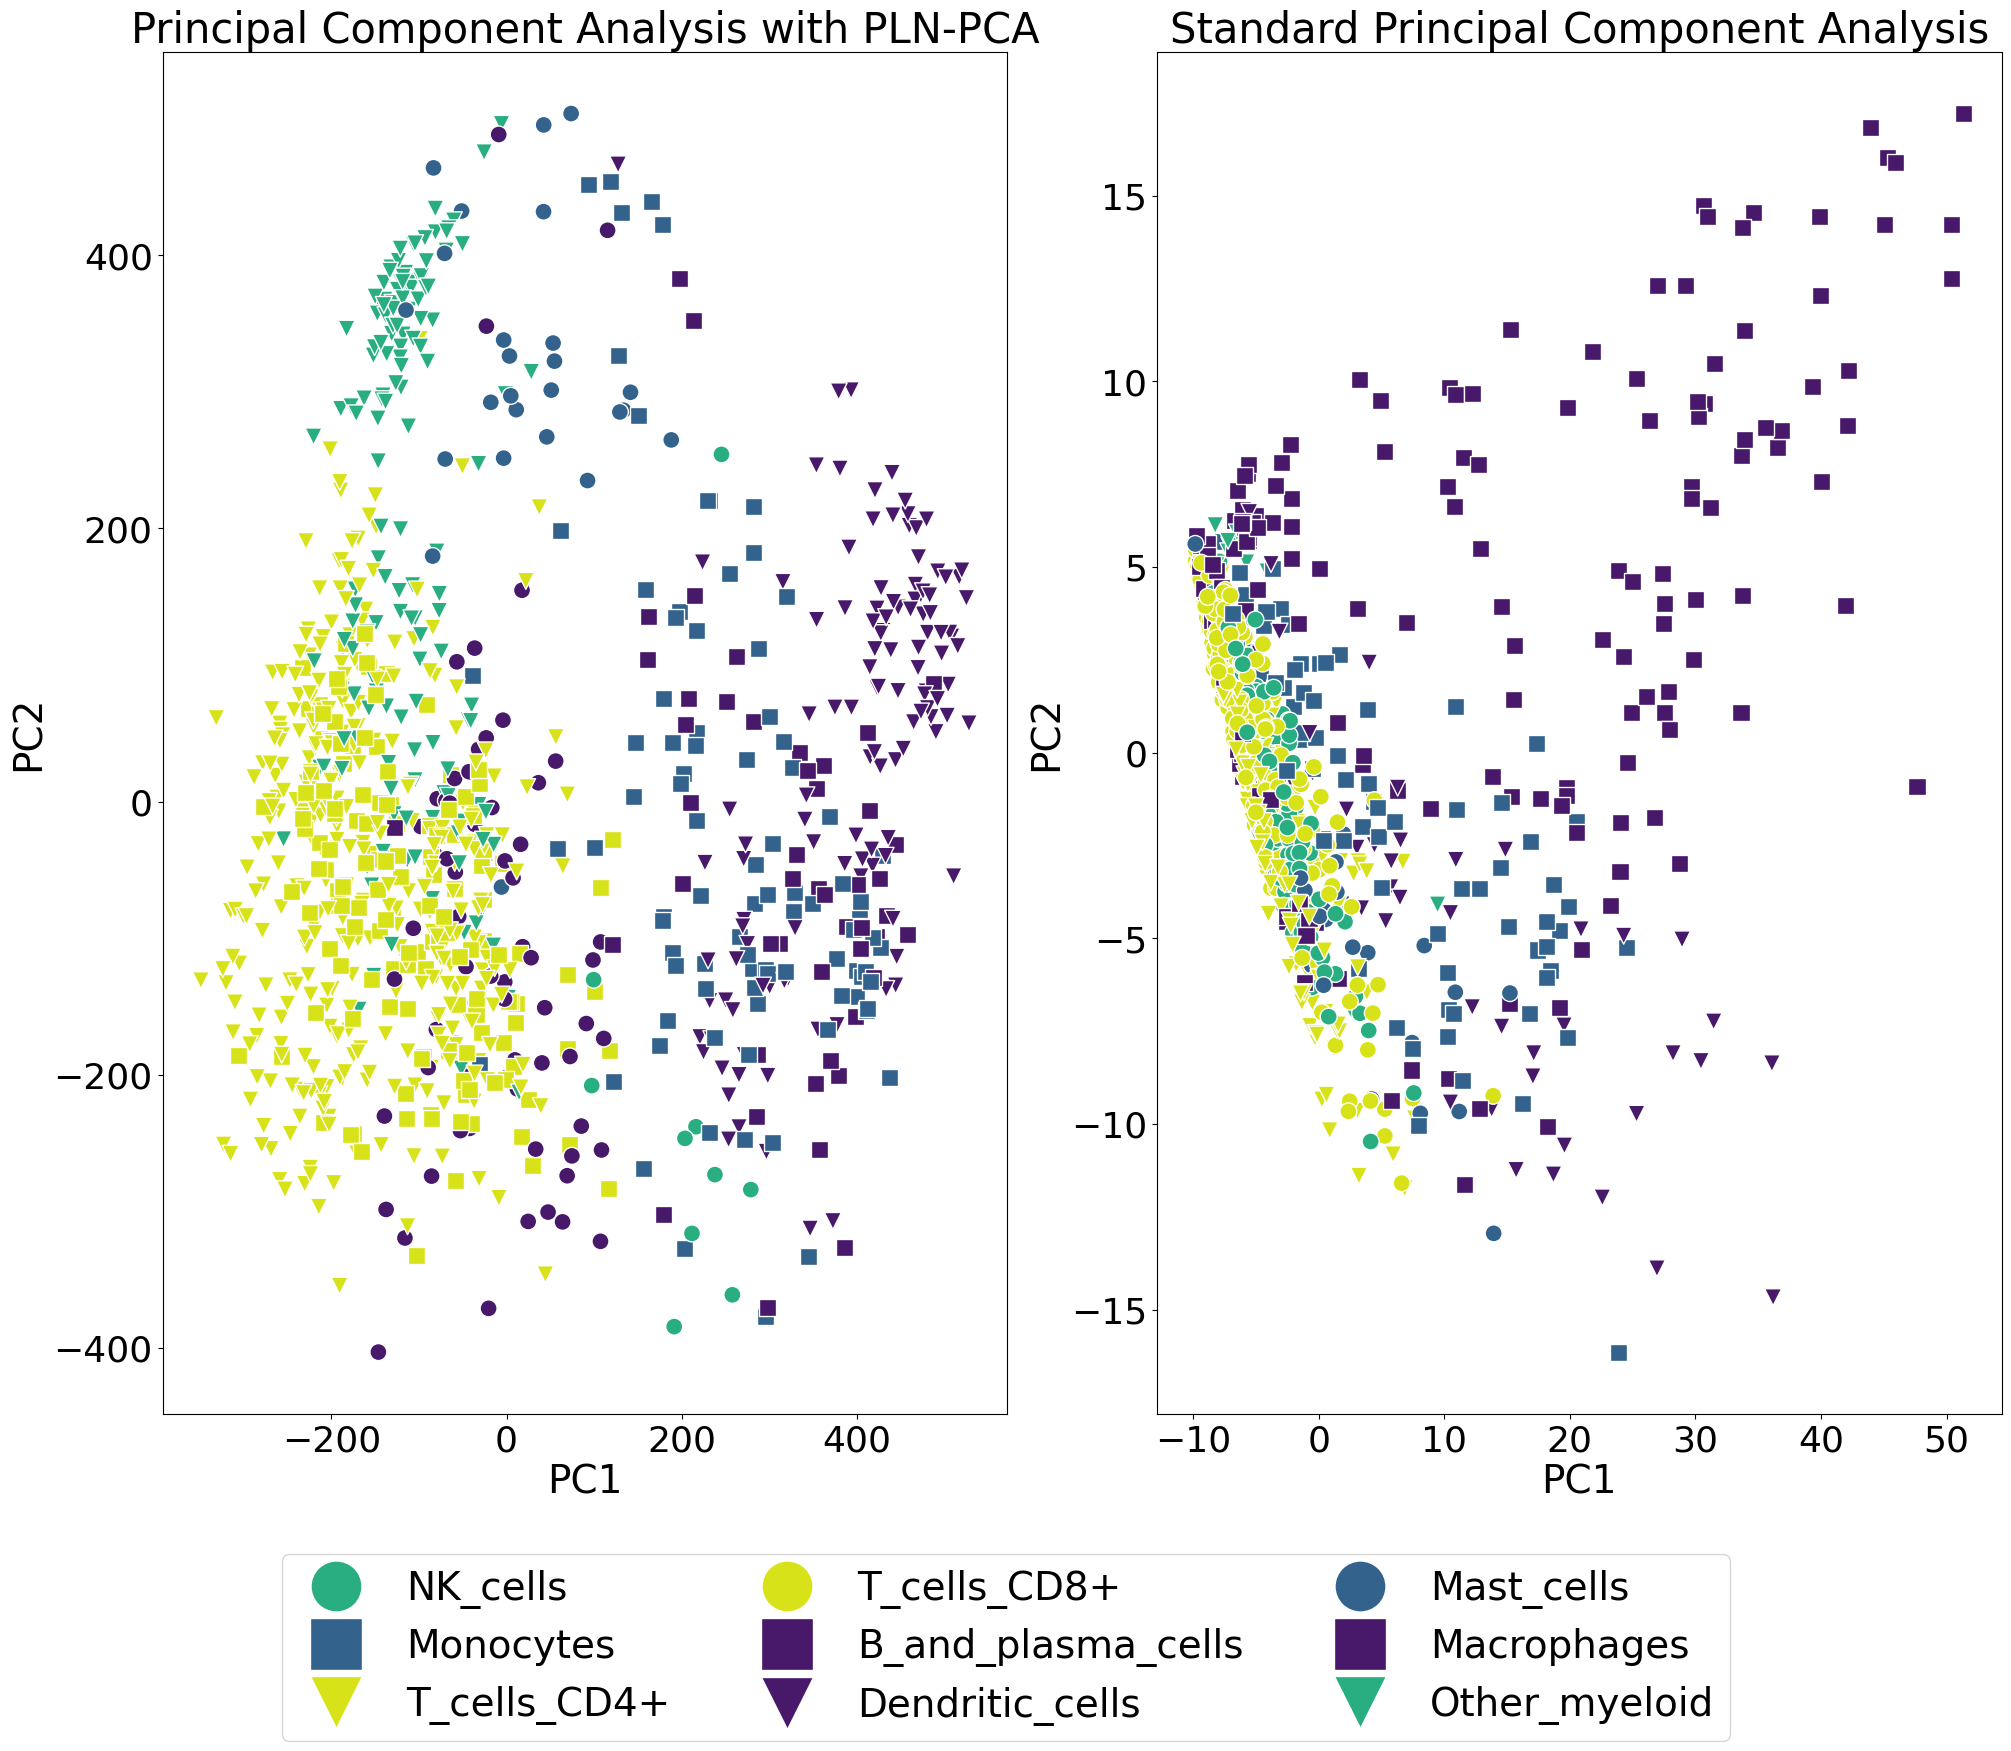
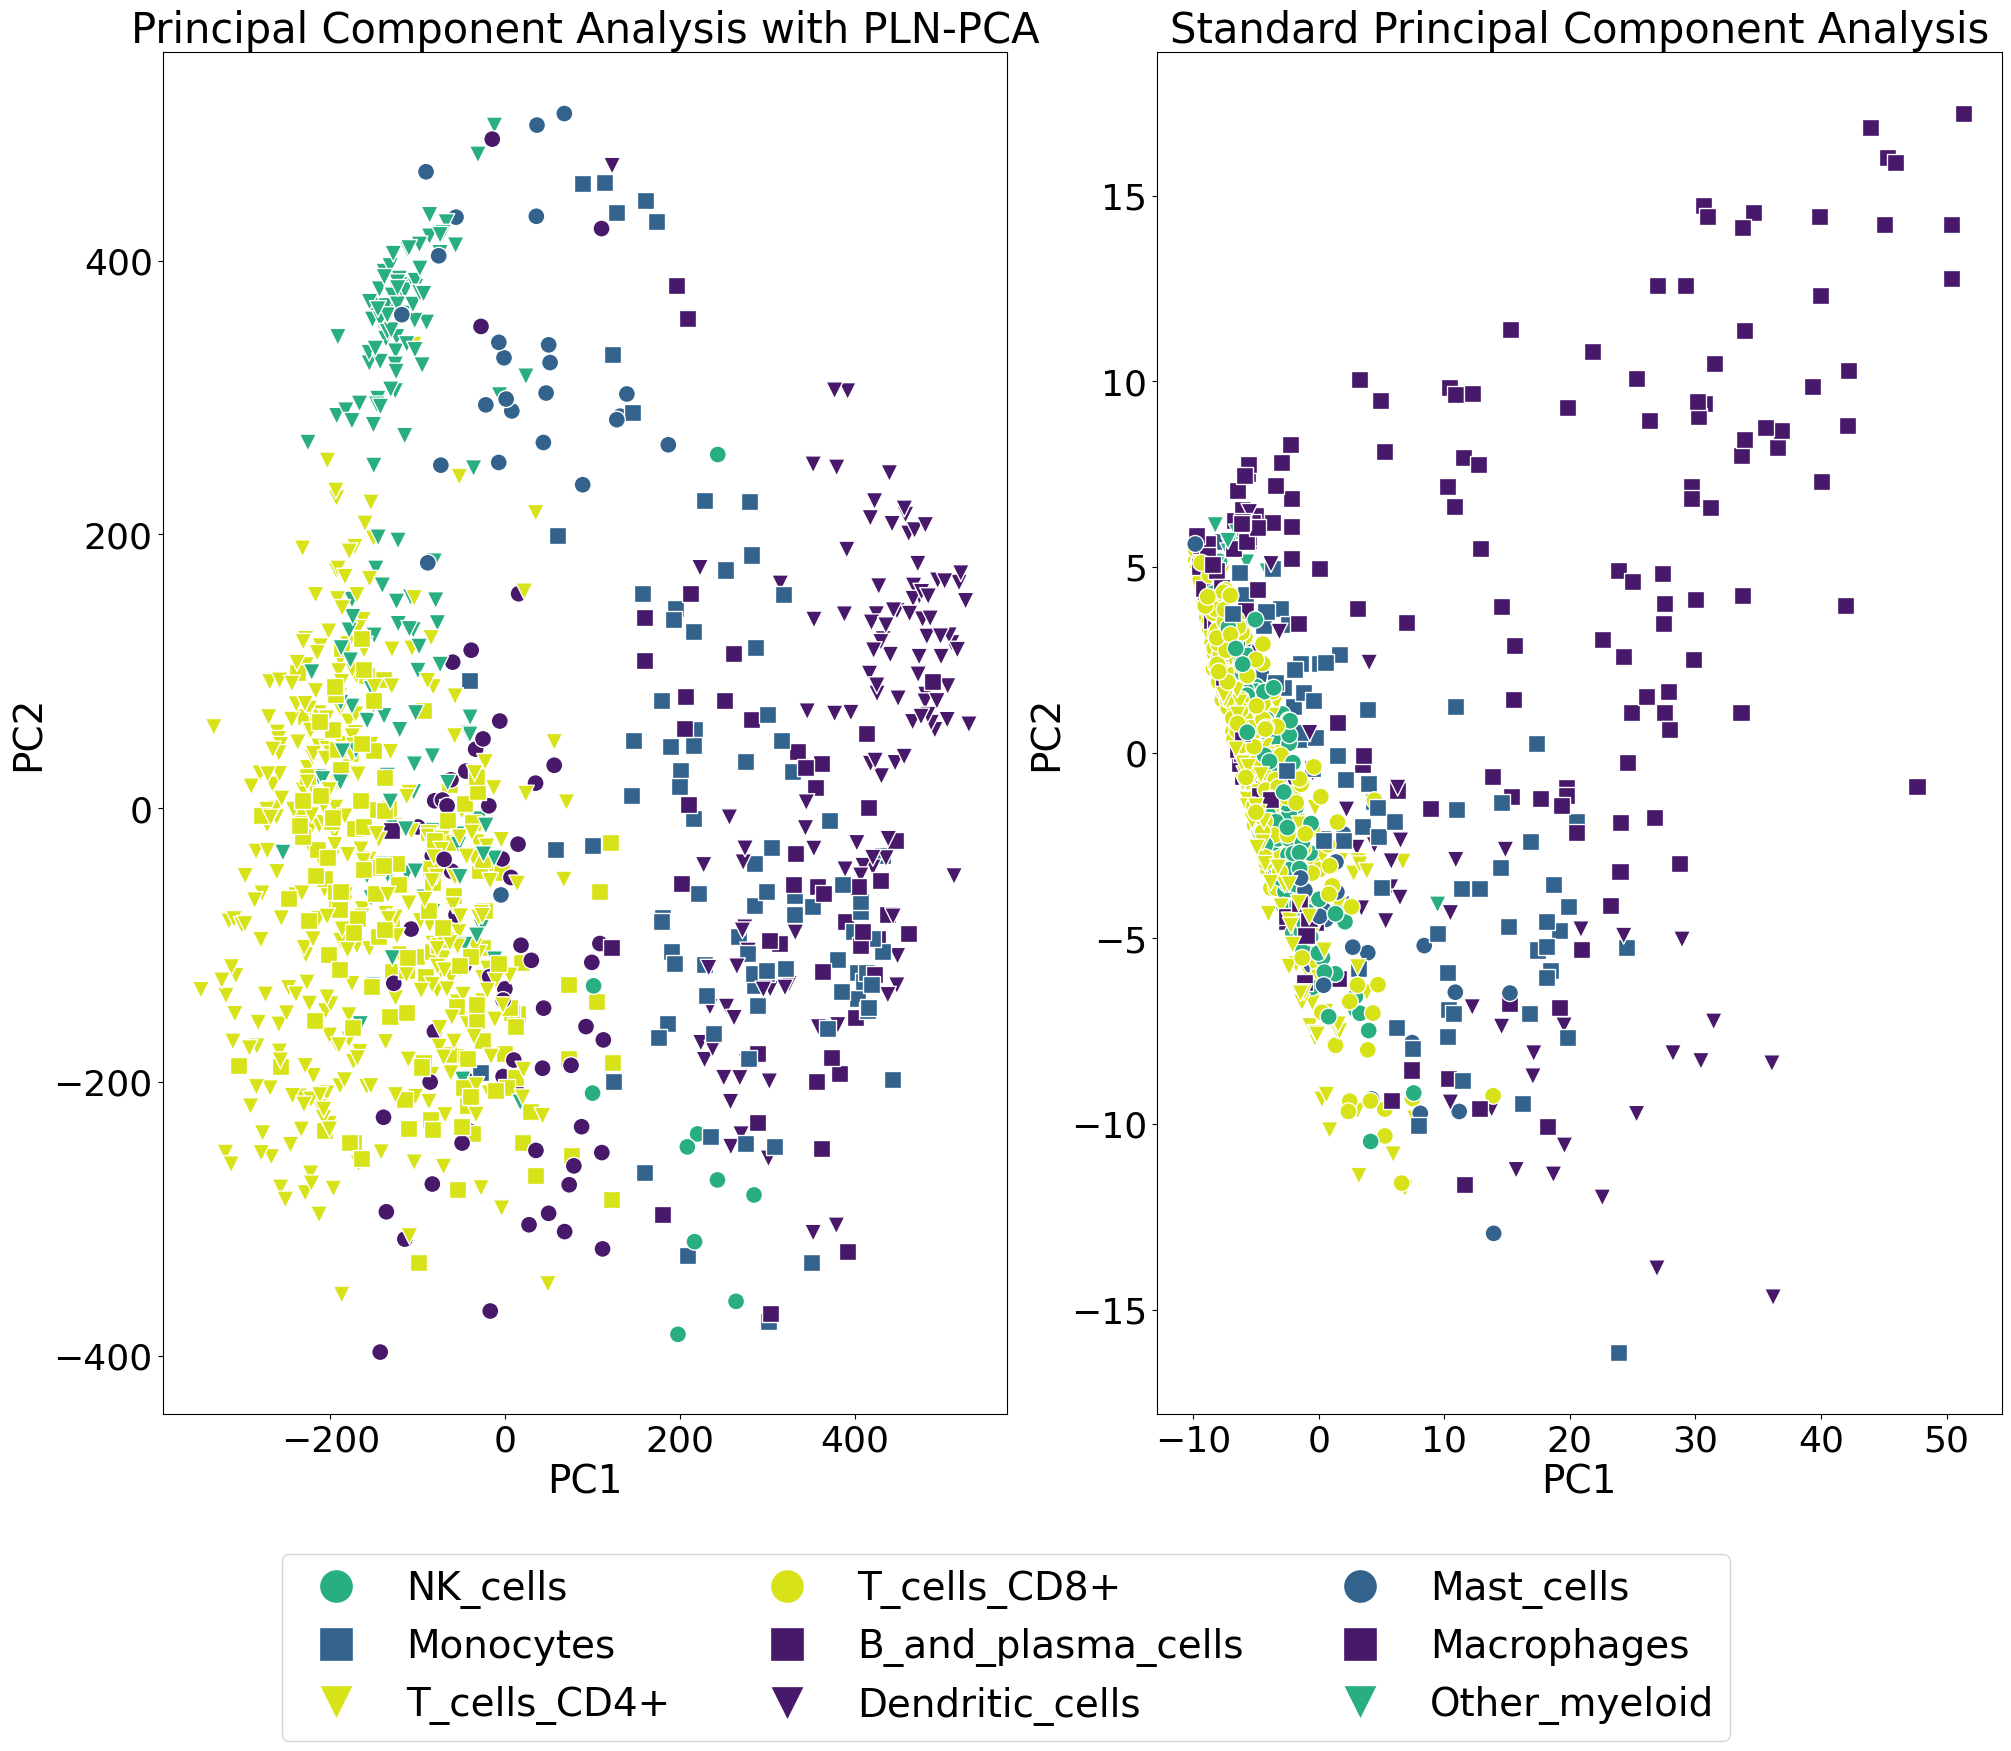
add markerscale

diff --git a/benchmark/pca.py b/benchmark/pca.py
@@ -72,7 +72,7 @@ fig.legend(
     legend,
     ncol=3,
     loc="lower center",
-    markerscale=3,
+    markerscale=2,
     fontsize=fontsize,
     bbox_to_anchor=[0, axbox.y0 - 0.28, 1, 1],
     bbox_transform=fig.transFigure,
